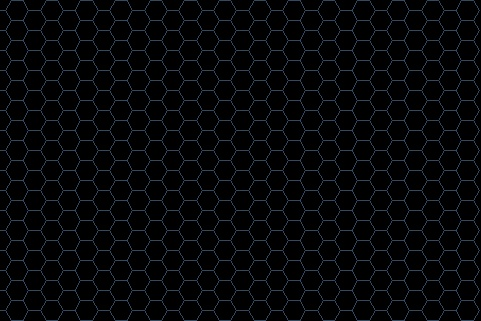
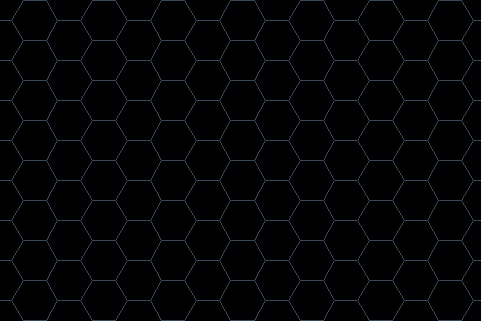
have to adjust the distance card

diff --git a/Waterpixels.py b/Waterpixels.py
@@ -1,3 +1,5 @@
+from dis import dis
+from optparse import Values
 import cv2
 import matplotlib.pyplot as plt
 from Gradient import *
@@ -5,12 +7,12 @@ from HexaGrid import HexaGrid
 from Voronoi_tesselation import voronoiTesselation
 from skimage.segmentation import watershed
 # parameters
-sigma = 20
+sigma = 40
 
+# rho ne doit pas etre egale a 0 control that !
 rho = 2/3
-
 # keep in mind that u get a bgr image
-img = cv2.imread("image.jpg")
+img = cv2.imread("image1.jpg")
 
 hexaGrid = HexaGrid(sigma, rho)
 
@@ -20,12 +22,19 @@ hexaGrid.computeCenters(img.shape)
 gray_img = cv2.cvtColor(img, cv2.COLOR_BGR2GRAY)
 
 
-# # computing a Sobel operator gradient
-#gradient = SobelOperator(gray_img)
+# gradient = morphologicalGradient(gray_img)
+# cv2.imwrite("image_morpho_gradient.jpg", gradient)
+# print(gradient)
+# # # computing a Sobel operator gradient
+gradient = SobelOperator(gray_img, 1)
 
-gradient = morphologicalGradient(gray_img)
+
+cv2.imwrite("image_gray.jpg", gray_img)
 cv2.imwrite("image_gradient.jpg", gradient)
 
+image_grid = hexaGrid.drawHexaGrid(img)
+
+cv2.imwrite("image_grid.jpg", image_grid)
 
 # compute minimas and select markers
 markers = selectMarkers(gradient, hexaGrid)
@@ -34,12 +43,16 @@ distImage = voronoiTesselation(
     img.shape, markers, sigma)
 
 
-k = 10
+k = 30
 
 g_reg = gradient + k * distImage
 
-cv2.imwrite("regularized_gradient.jpg", cv2.normalize(
-    g_reg,  None, 0, 255, cv2.NORM_MINMAX))
+
+# g_reg = cv2.normalize(
+#     g_reg,  None, 0, 255, cv2.NORM_MINMAX)
+
+
+cv2.imwrite("regularized_gradient.jpg", g_reg)
 
 
 markers_map = np.zeros_like(g_reg)
@@ -53,5 +66,14 @@ labels = watershed(g_reg, markers_map, watershed_line=True)
 
 indices = np.where(labels == 0)
 
-img[indices[0], indices[1]] = 255
+
+for i in range(len(indices[0])):
+
+    cv2.circle(img, np.int32([indices[1][i], indices[0][i]]),
+               1, [249, 217, 38][::-1], -1, cv2.LINE_AA)
+
+
+#img[indices[0], indices[1]] = [249, 217, 38][::-1]
+
+
 cv2.imwrite("waterpixels.jpg", img)

diff --git a/Voronoi_tesselation.py b/Voronoi_tesselation.py
@@ -1,3 +1,4 @@
+from matplotlib.pyplot import gray
 import numpy as np
 import cv2
 from itertools import product
@@ -13,6 +14,8 @@ def euclidianDist(row, markers_centers):
 
     # je get les pixels sur les lignes
     row_indices = list(product([euclidianDist.i], np.arange(len(row))))
+
+    # print(row_indices)
 
     euclidianDist.i += 1
 
@@ -41,8 +44,7 @@ def voronoiTesselation(shape, markers, sigma, color=[249, 217, 38][::-1]):
     gray_diagram = np.apply_along_axis(
         euclidianDist, 1, gray_diagram, markers_points)
 
-    gray_diagram = cv2.normalize(
-        (2/sigma)*gray_diagram,  None, 0, 255, cv2.NORM_MINMAX)
+    gray_diagram = (2/sigma)*gray_diagram
 
     diagram[:, :, 0] = gray_diagram
 

diff --git a/Gradient.py b/Gradient.py
@@ -34,8 +34,15 @@ def SobelOperator(img, sigma=None):
     g_x = signal.convolve2d(image, s_x, mode='same')
 
     g_y = signal.convolve2d(image, s_y, mode='same')
+
+    # print(g_y)
     # magnitude
-    return np.sqrt(np.power(g_x, 2) + np.power(g_y, 2))
+    norm = np.sqrt(np.power(g_x, 2) + np.power(g_y, 2))
+
+    normalized_norm = cv2.normalize(
+        norm,  None, 0, 255, cv2.NORM_MINMAX)
+
+    return normalized_norm
 
 
 # only gray lvl
@@ -47,7 +54,7 @@ def morphologicalGradient(image):
 
     img = image.copy()
 
-    struct_elt = np.ones((4, 4), np.uint8)
+    struct_elt = np.ones((3, 3), np.uint8)
 
     return cv2.dilate(img, struct_elt) - cv2.erode(img, struct_elt)
 
